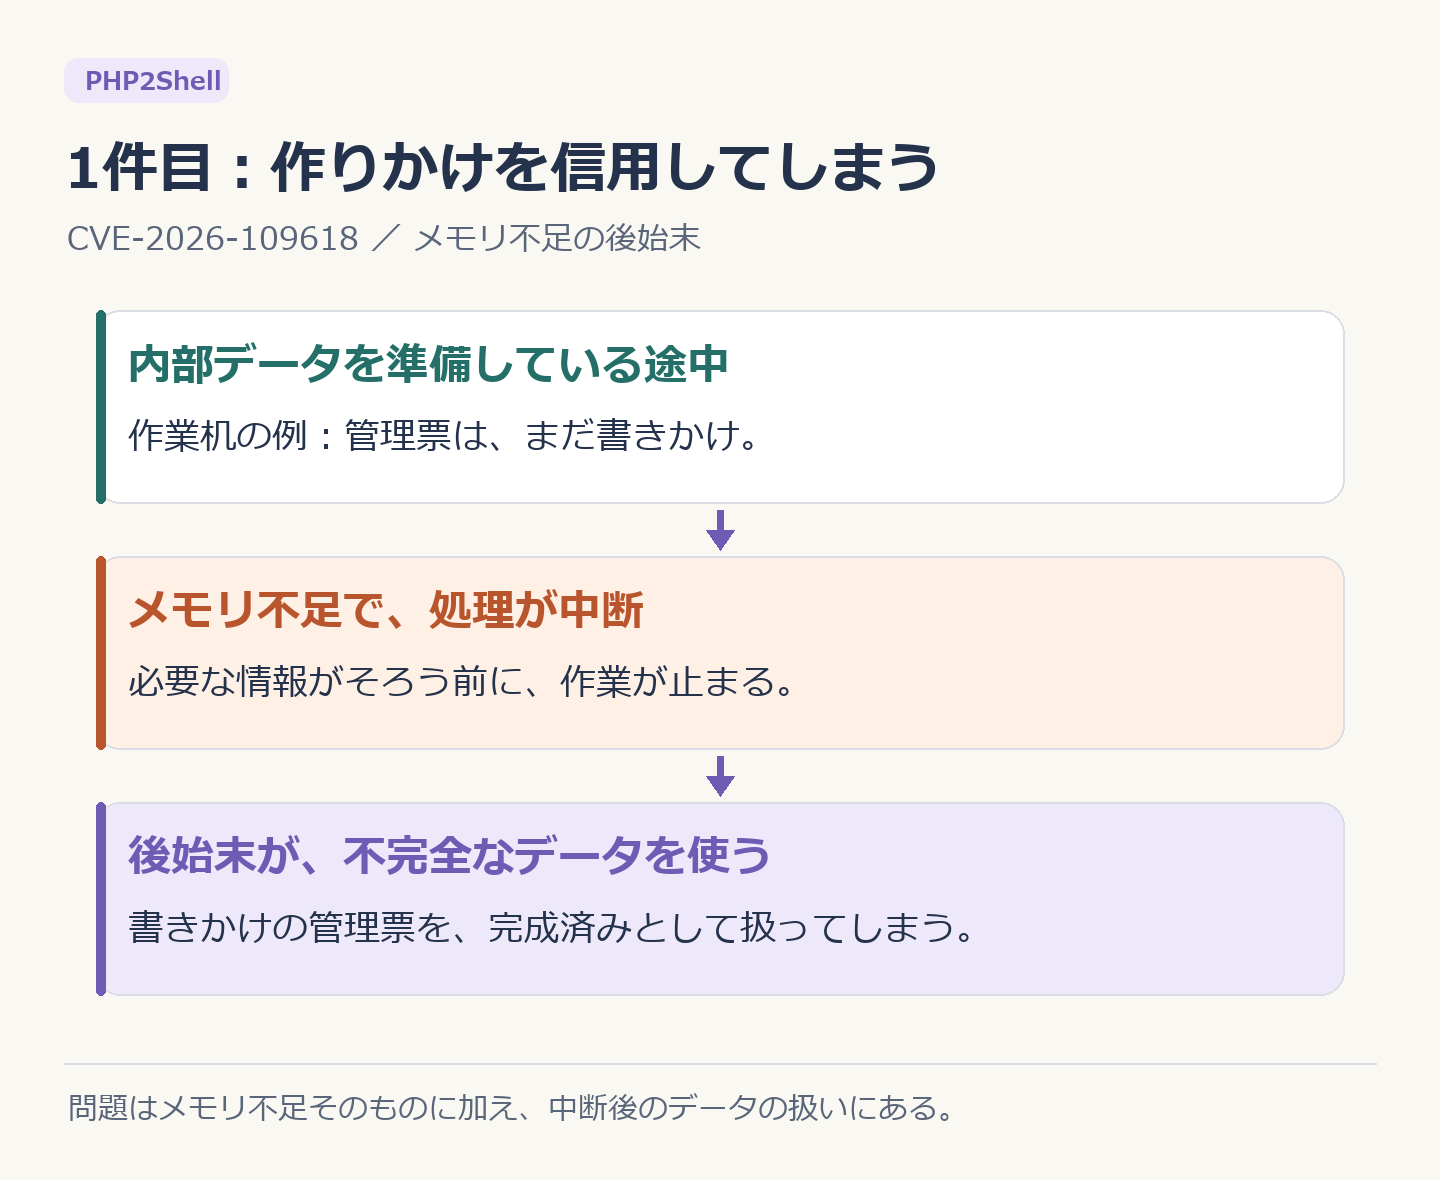
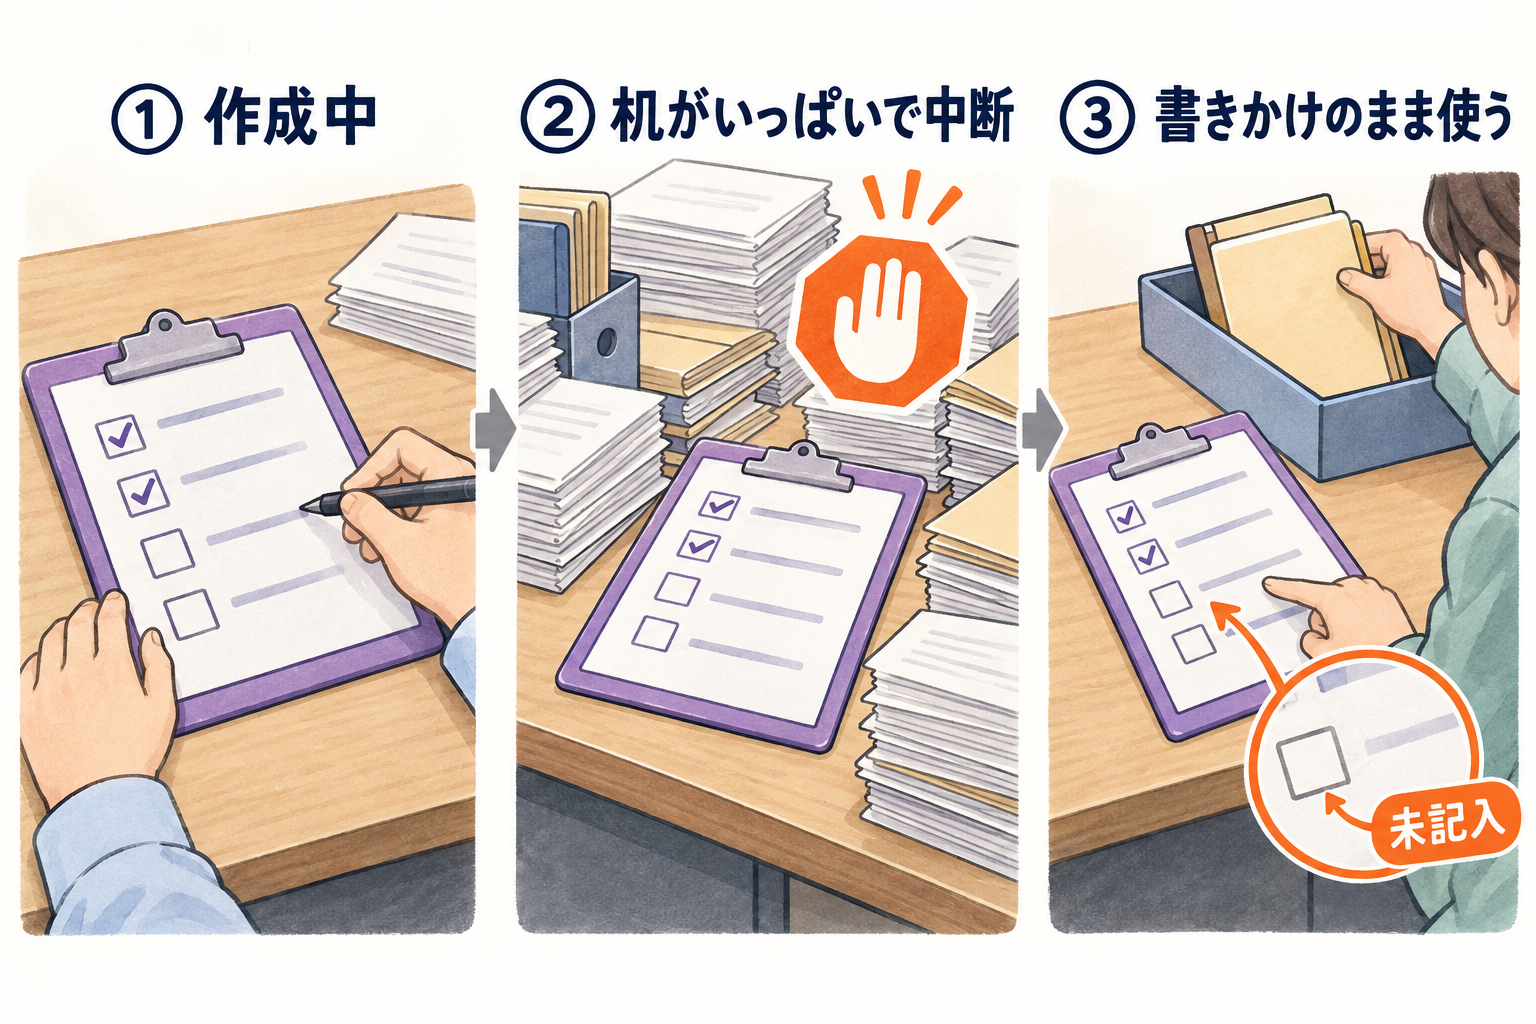
feat: add php2shell article, source prompts, and figure rendering scripts

diff --git a/images/php2shell-explained/source/render-review.py b/images/php2shell-explained/source/render-review.py
@@ -1,0 +1,101 @@
+"""Render the editable SVG and inspect article layout with real Zenn Markdown/CSS.
+
+One-time dependencies:
+  npm install --prefix docs/php2shell-figures-review zenn-markdown-html@0.5.2 zenn-content-css@0.5.8 mermaid@11.17.2
+  pip install playwright
+  playwright install chromium
+Run from any directory: python images/php2shell-explained/source/render-review.py
+"""
+from functools import partial
+from http.server import SimpleHTTPRequestHandler, ThreadingHTTPServer
+from pathlib import Path
+import json
+import os
+import re
+import subprocess
+from threading import Thread
+from urllib.parse import unquote, urlsplit
+
+from playwright.sync_api import sync_playwright
+
+SOURCE = Path(__file__).resolve().parent
+ROOT = SOURCE.parents[2]
+REVIEW = ROOT / 'docs/php2shell-figures-review'
+REVIEW.mkdir(parents=True, exist_ok=True)
+
+
+class QuietHandler(SimpleHTTPRequestHandler):
+    def log_message(self, *args):
+        pass
+
+
+def available_chromium(playwright):
+    expected = Path(playwright.chromium.executable_path)
+    if expected.is_file():
+        return expected
+    # An existing local Playwright browser is sufficient for static figure QA.
+    cache = Path(os.environ['LOCALAPPDATA']) / 'ms-playwright'
+    candidates = sorted(cache.glob('chromium_headless_shell-*/chrome-headless-shell-win64/chrome-headless-shell.exe'))
+    if not candidates:
+        raise RuntimeError('Install Chromium with: playwright install chromium')
+    return candidates[-1]
+
+
+def check_sources():
+    article = (ROOT / 'articles/php2shell-explained.md').read_text(encoding='utf-8')
+    blocks = re.findall(r'```mermaid\n(.*?)```', article, flags=re.S)
+    assert len(blocks) == 2
+    for code, name in zip(blocks, ['01_公開までの段取り', '07_きっかけと乗っ取りの違い']):
+        assert code.strip() == (SOURCE / f'{name}.mmd').read_text(encoding='utf-8').strip()
+    for url in re.findall(r'!\[[^\]]*\]\((https://raw\.githubusercontent\.com/[^\s)]+)', article):
+        relative = unquote(urlsplit(url).path.split('/main/', 1)[1])
+        assert (ROOT / relative).is_file(), relative
+
+
+check_sources()
+subprocess.run(['node', str(SOURCE / 'render-preview.mjs')], cwd=ROOT, check=True)
+server = ThreadingHTTPServer(('127.0.0.1', 0), partial(QuietHandler, directory=str(ROOT)))
+Thread(target=server.serve_forever, daemon=True).start()
+origin = f'http://127.0.0.1:{server.server_port}'
+report = {}
+try:
+    with sync_playwright() as p:
+        browser = p.chromium.launch(executable_path=str(available_chromium(p)))
+        page = browser.new_page(viewport={'width': 800, 'height': 900}, device_scale_factor=1)
+        page.goto(origin + '/images/php2shell-explained/source/02_PHPの層とブラウザー.svg')
+        page.evaluate('document.fonts.ready')
+        page.screenshot(path=str(SOURCE.parent / '02_PHPのどの層か.png'))
+        for width in [1080, 375]:
+            page.set_viewport_size({'width': width, 'height': 1000})
+            errors = []
+            page.on('pageerror', lambda error: errors.append(str(error)))
+            page.goto(origin + '/docs/php2shell-figures-review/article.html')
+            page.add_script_tag(path=str(REVIEW / 'node_modules/mermaid/dist/mermaid.min.js'))
+            page.evaluate('''async () => {
+              mermaid.initialize({startOnLoad:false, securityLevel:'strict',theme:'neutral',fontFamily:'"Yu Gothic",Meiryo,sans-serif',flowchart:{htmlLabels:true}});
+              await mermaid.run({querySelector:'.mermaid'});
+              await document.fonts.ready;
+              for (const img of document.images) img.loading = 'eager';
+              await Promise.all([...document.images].map(img => img.decode()));
+            }''')
+            layout = page.evaluate('''() => ({
+              documentWidth:document.documentElement.scrollWidth,
+              viewport:innerWidth,
+              images:[...document.images].map(i=>({src:i.getAttribute('src'),width:i.clientWidth,naturalWidth:i.naturalWidth})),
+              diagrams:document.querySelectorAll('.mermaid svg').length
+            })''')
+            assert not errors, errors
+            assert layout['documentWidth'] == width, layout
+            assert layout['diagrams'] == 2, layout
+            assert len(layout['images']) == 4, layout
+            assert all(image['naturalWidth'] > 0 for image in layout['images']), layout
+            page.screenshot(path=str(REVIEW / f'article-{width}.png'), full_page=True)
+            for index, figure in enumerate(page.locator('.znc img, .mermaid').all()):
+                figure.screenshot(path=str(REVIEW / f'figure-{width}-{index}.png'))
+            page.locator('table').nth(3).screenshot(path=str(REVIEW / f'roles-{width}.png'))
+            report[str(width)] = layout
+        browser.close()
+finally:
+    server.shutdown()
+(REVIEW / 'verification.json').write_text(json.dumps(report, ensure_ascii=False, indent=2), encoding='utf-8')
+print(json.dumps(report, ensure_ascii=False, indent=2))

diff --git a/images/php2shell-explained/source/README.md b/images/php2shell-explained/source/README.md
@@ -1,0 +1,64 @@
+# PHP2Shell記事の図版レビューと修正
+
+対象: [php2shell-explained.md](../../../articles/php2shell-explained.md)
+
+## 判断基準
+
+文章を枠に入れるだけなら、Markdownの本文・表・Mermaidを使う。画像は、物の位置関係や、同じ物の変化を見せることで理解が進む箇所に使う。
+
+## 6枚の見直し
+
+| 対象 | 元の図の問題 | 記事への反映 |
+|---|---|---|
+| 01 公開までの段取り | 手順と日付が同じ大きさのカードに並び、対応関係が曖昧。後の時系列表とも重複していた | 通常の手順は縦向きのMermaid。今回の出来事は既存の日付表で読む |
+| 02 PHPのどの層か | 「上・中・下」と文章で説明しており、ブラウザーやサーバーとの位置関係が見えなかった | ブラウザーをサーバーの外に配置。サーバー内を立体的な3層にし、PHP本体を強調 |
+| 04 作りかけの情報 | 中断後も何が不完全なのかが見えず、説明文の言い換えだった | 同じ管理票の空欄が3コマを通して残る生成イラスト。最後に空欄を拡大して示す |
+| 06 古い参照 | データと参照を別々に描いておらず、何が消え、何が残るか分からなかった | 同じトレーA・同じメモ・同じ担当者を維持。紫の書類だけが取り除かれ、別のオレンジの書類へ変わる生成イラスト |
+| 07 きっかけと乗っ取り | 一本道の矢印が、不具合の発生からコード実行へ自動的に進むように見えた | 異常終了などの経路と、条件と制御が必要なコード実行の経路に分岐するMermaid |
+| 08 立場ごとの対応 | 行動の比較を画像にしており、本文の再掲になっていた | 「使う人」「サイトを公開する人」「サーバーを管理する人」のMarkdown表 |
+
+03・05の挿絵は、04・06と同じ説明を繰り返すため記事の参照から外した。画像は9枚から4枚になった。01・03・05・07・08の旧PNGは現在の記事では参照していない。
+
+## 最終画像と編集元
+
+- [02 PHPのどの層か.png](../02_PHPのどの層か.png) — [編集用SVG](02_PHPの層とブラウザー.svg)。ブラウザーでPNGへ描画。
+- [04 作りかけの情報を使う欠陥.png](../04_作りかけの情報を使う欠陥.png) — 組み込み `image_gen` で新規生成。
+- [06 古い参照を使う欠陥.png](../06_古い参照を使う欠陥.png) — 組み込み `image_gen` で新規生成。
+- [01のMermaid](01_公開までの段取り.mmd) / [07のMermaid](07_きっかけと乗っ取りの違い.mmd)。記事中のコードと一致することを検証。
+- [生成に使った完全なプロンプト](prompts.json)。`unfinished` が04、`stale` が06。
+
+04・06は、文章をカードに載せる図を避け、実物の管理票・メモ・書類を描くよう指定した。04は最後まで空欄が残ること、06は参照先とメモが変わらないことを必須条件にした。
+
+## 内容の確認
+
+図の説明を以下の一次資料と照合した。
+
+- [PHP公式アドバイザリ：OOM corruption](https://github.com/php/php-src/security/advisories/GHSA-w8hw-w9fx-j79w)
+- [PHP公式アドバイザリ：stale global state](https://github.com/php/php-src/security/advisories/GHSA-6wmf-4rv5-p3rp)
+- [PHP Foundation：公開変更の経緯](https://thephp.foundation/blog/2026/10/21/todays-php-security-release-and-how-were-strengthening-php-security/)
+
+02は依存関係の模式図。04・06は作業机の比喩であり、実際のメモリ構造ではない。06の別の書類は、解放された場所が再利用された場合を表す。コード実行の成立条件や攻撃成功率を絵の距離・段差で表現しない。
+
+## 表示確認
+
+2026-10-23に、Zenn用Markdown変換・CSSを使うローカルプレビューで確認。
+
+- 使用パッケージ: `zenn-markdown-html@0.5.2`、`zenn-content-css@0.5.8`、`mermaid@11.17.2`。
+- デスクトップ: ビューポート1080px、本文・図版720px、冒頭の挿絵480px。
+- スマートフォン: ビューポート375px、本文・図版335px。
+- 画像4枚の読み込み、Mermaid2件の描画、ページ全体の横はみ出しがないことを確認。
+- 縮小表示を目視し、02を縦構図へ変更、01を縦のフローへ変更、07のラベルを短くした。
+- 04の空欄、06の古いメモと書類の違い、同じ担当者の括弧を目視確認。
+- 08の表もスマートフォン幅で折り返しを確認。
+- 記事中の画像URLがローカルファイルへ対応すること、`git diff --check` を確認。
+
+プレビューHTML・スクリーンショット・寸法レポートは、リポジトリで除外されている `docs/php2shell-figures-review/` に保存する。
+
+再生成・再確認:
+
+```powershell
+npm install --prefix docs/php2shell-figures-review zenn-markdown-html@0.5.2 zenn-content-css@0.5.8 mermaid@11.17.2
+python images/php2shell-explained/source/render-review.py
+```
+
+Pythonの `playwright` とChromiumが必要。上のスクリプトは02のPNGもSVGから再生成する。
